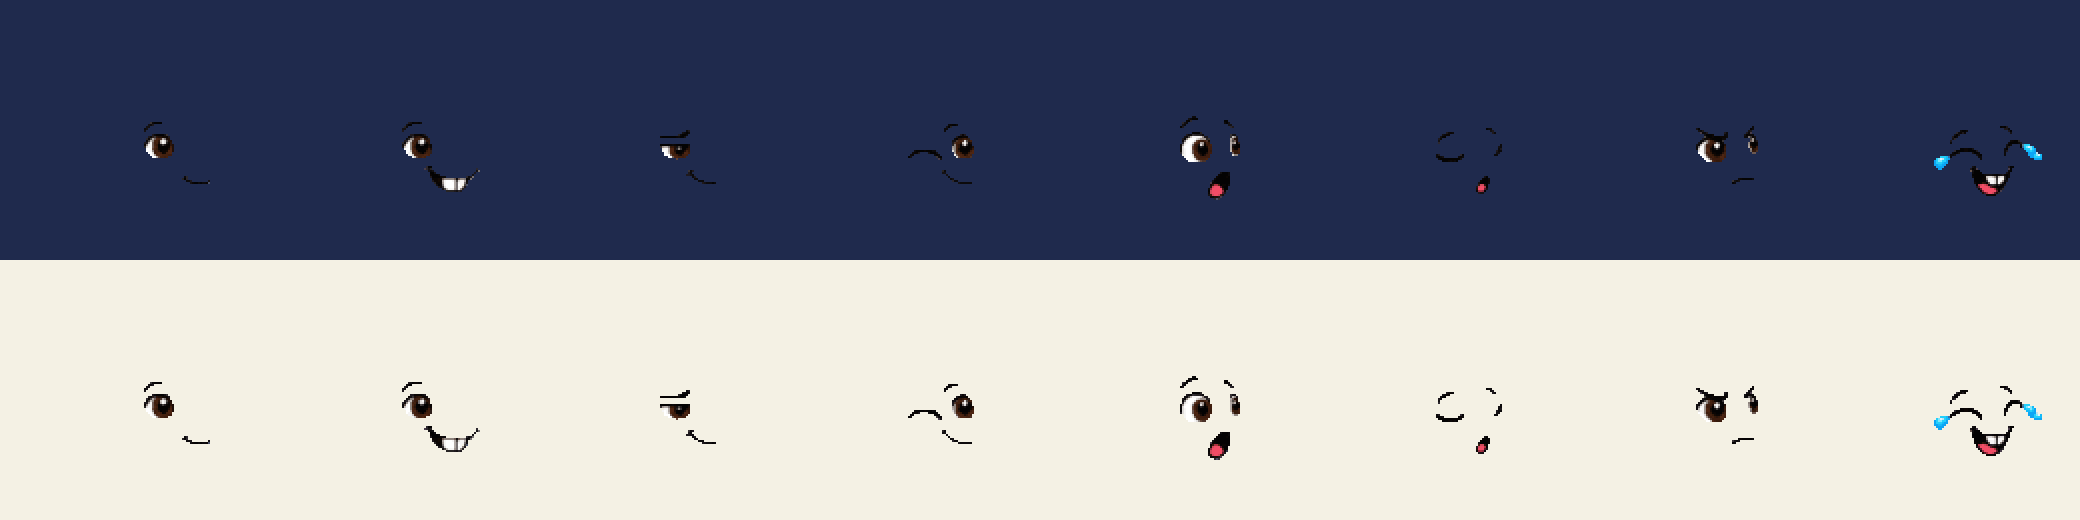
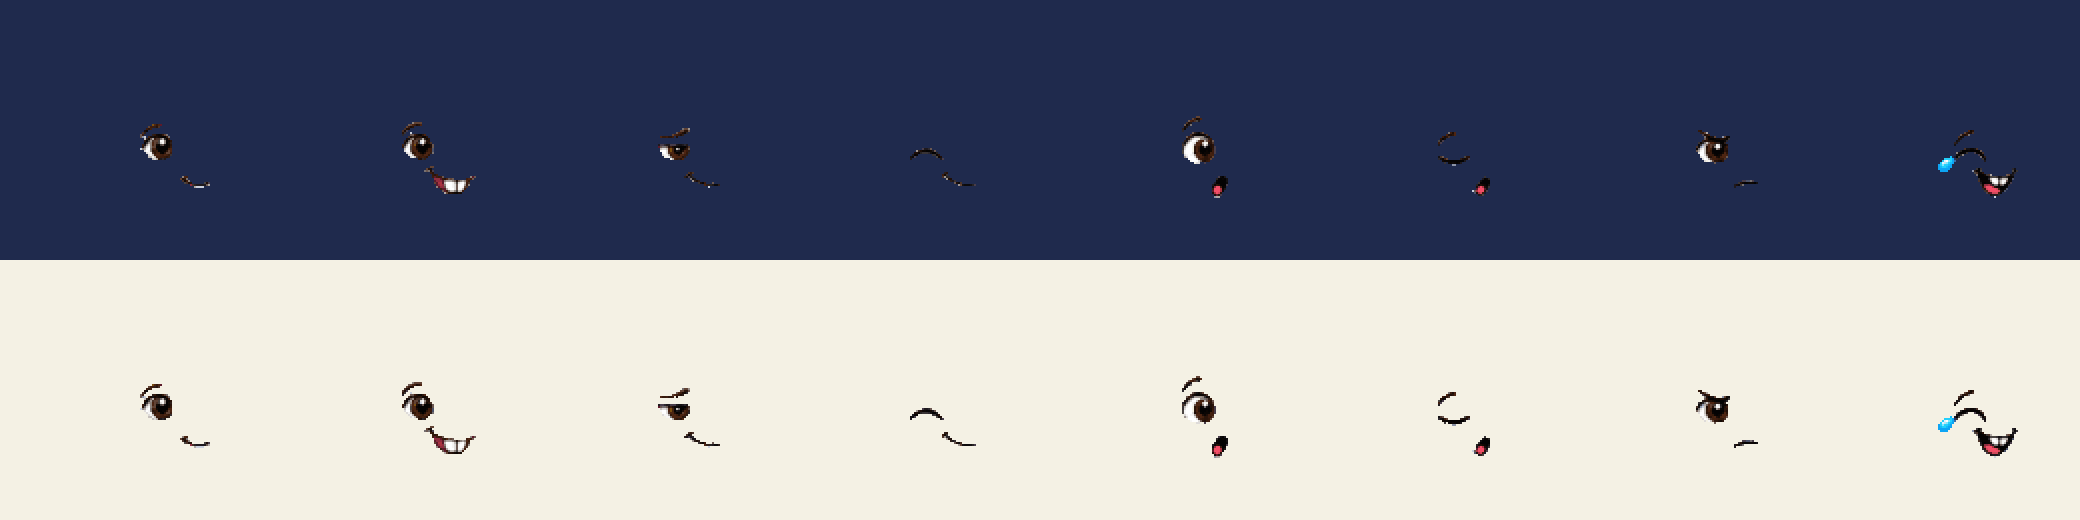
feat(art): the rat's faces drawn again, in profile
The faces of v15 were drawn on a flat silhouette and came out as front-facing emoji: a second eye
on the snout, mouths in the middle of the cheek. Sheet rat-face-02 (v19) draws one eye where the
rat's own eye is and the mouth under the tip of its snout. The far eye the generator still drew on
the wink and on the tears was painted out on the sheet. Same eight faces, same names: every player
keeps the face they chose.

diff --git a/tools/art/src/sheets.ts b/tools/art/src/sheets.ts
@@ -409,11 +409,11 @@ export const SHEETS: SheetSpec[] = [
   { file: 'icons/icons-12', group: 'icons', kind: 'objects', cols: 2, rows: 1, width: 32, height: 32, ids: ['icon.focus_family', 'icon.focus_rest'] },
   { file: 'badges/badges-08', group: 'badges', kind: 'objects', cols: 1, rows: 1, width: 64, height: 64, ids: ['badge.own_boss'] },
   // A player's rat in layers, back to front: backdrop, body, face, outfit, eyewear, headwear. The bodies
-  // of rat-body-02 have their faces left blank, so that the faces of rat-face-01 can be worn on them.
+  // of rat-body-02 have their faces left blank, so that the faces of rat-face-02 (v19, in profile) can be worn on them.
   ...(
     [
       ['rat-body-02', 'body', false, ['grey', 'brown', 'white', 'black', 'ginger', 'golden', 'slate', 'spotted']],
-      ['rat-face-01', 'face', true, ['calm', 'grin', 'smug', 'wink', 'shock', 'sleepy', 'fierce', 'tears']],
+      ['rat-face-02', 'face', true, ['calm', 'grin', 'smug', 'wink', 'shock', 'sleepy', 'fierce', 'tears']],
       ['rat-outfit-01', 'outfit', true, ['suit', 'tracksuit', 'tuxedo', 'hoodie', 'scrubs', 'hivis', 'chef', 'leather']],
       ['rat-outfit-02', 'outfit', true, ['lab', 'sweater', 'hawaiian', 'varsity', 'robe', 'kimono', 'fur', 'gold']],
       ['rat-hat-01', 'hat', true, ['cap', 'beanie', 'beret', 'hardhat', 'cowboy', 'headphones', 'bandana', 'chef']],
